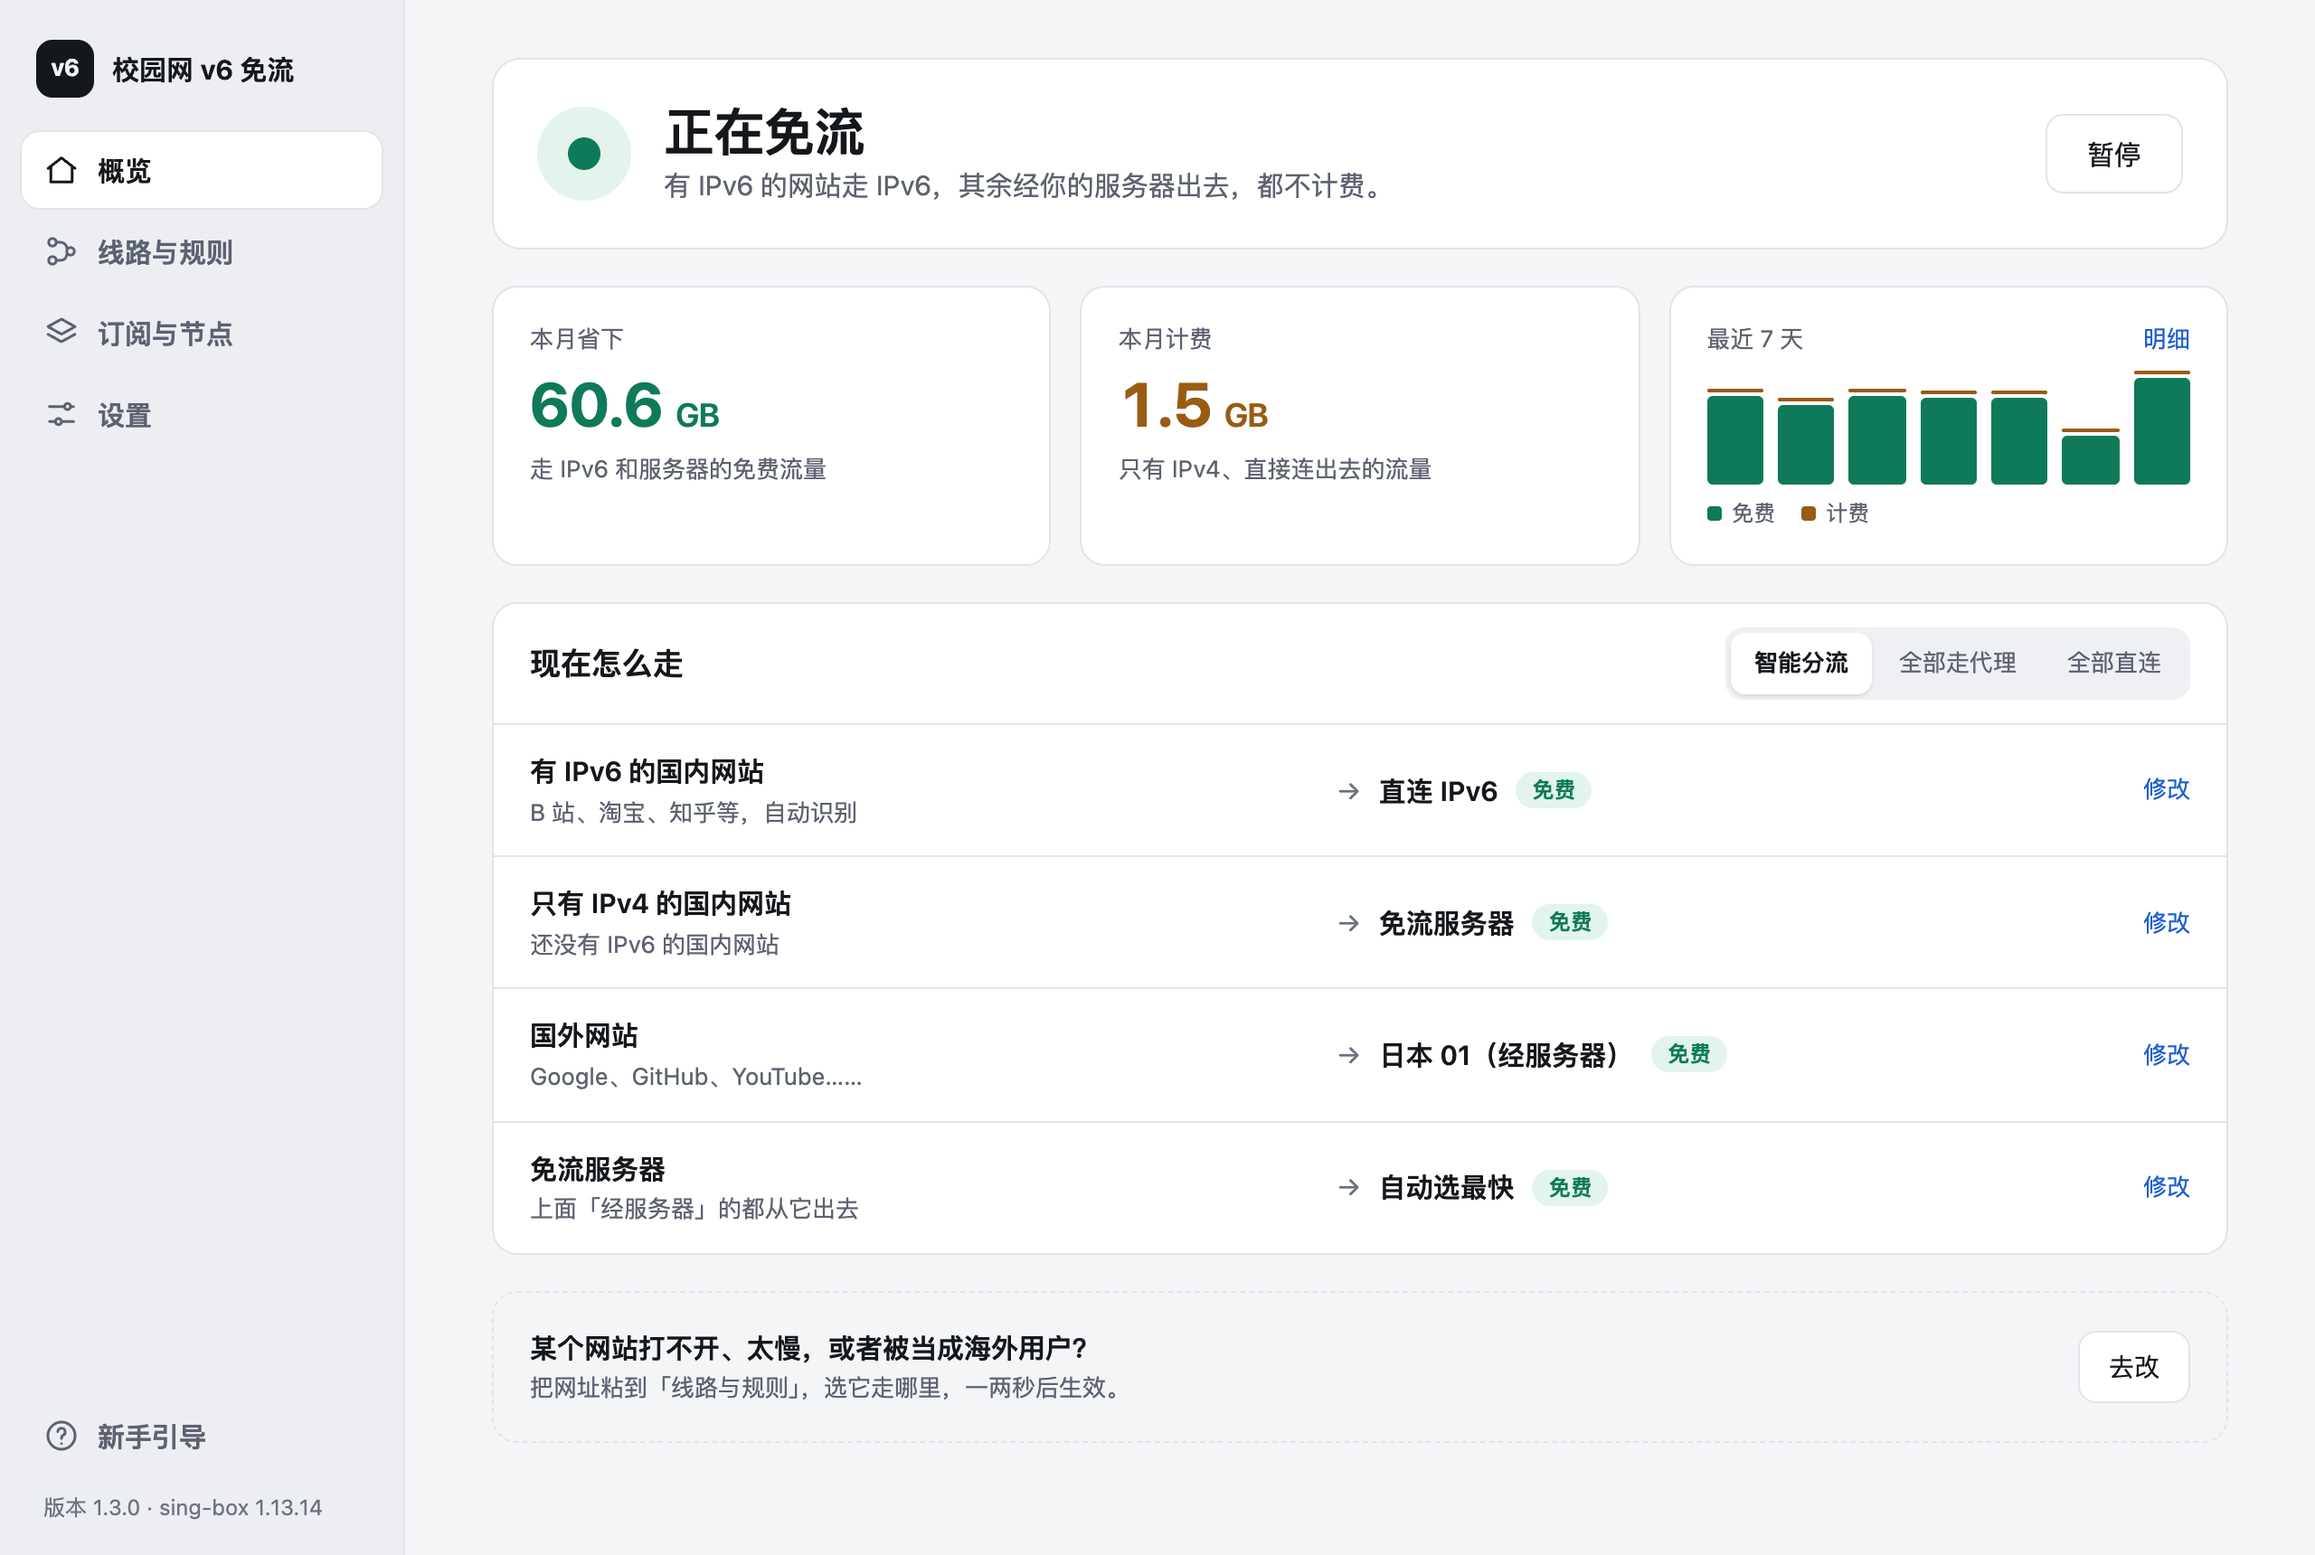
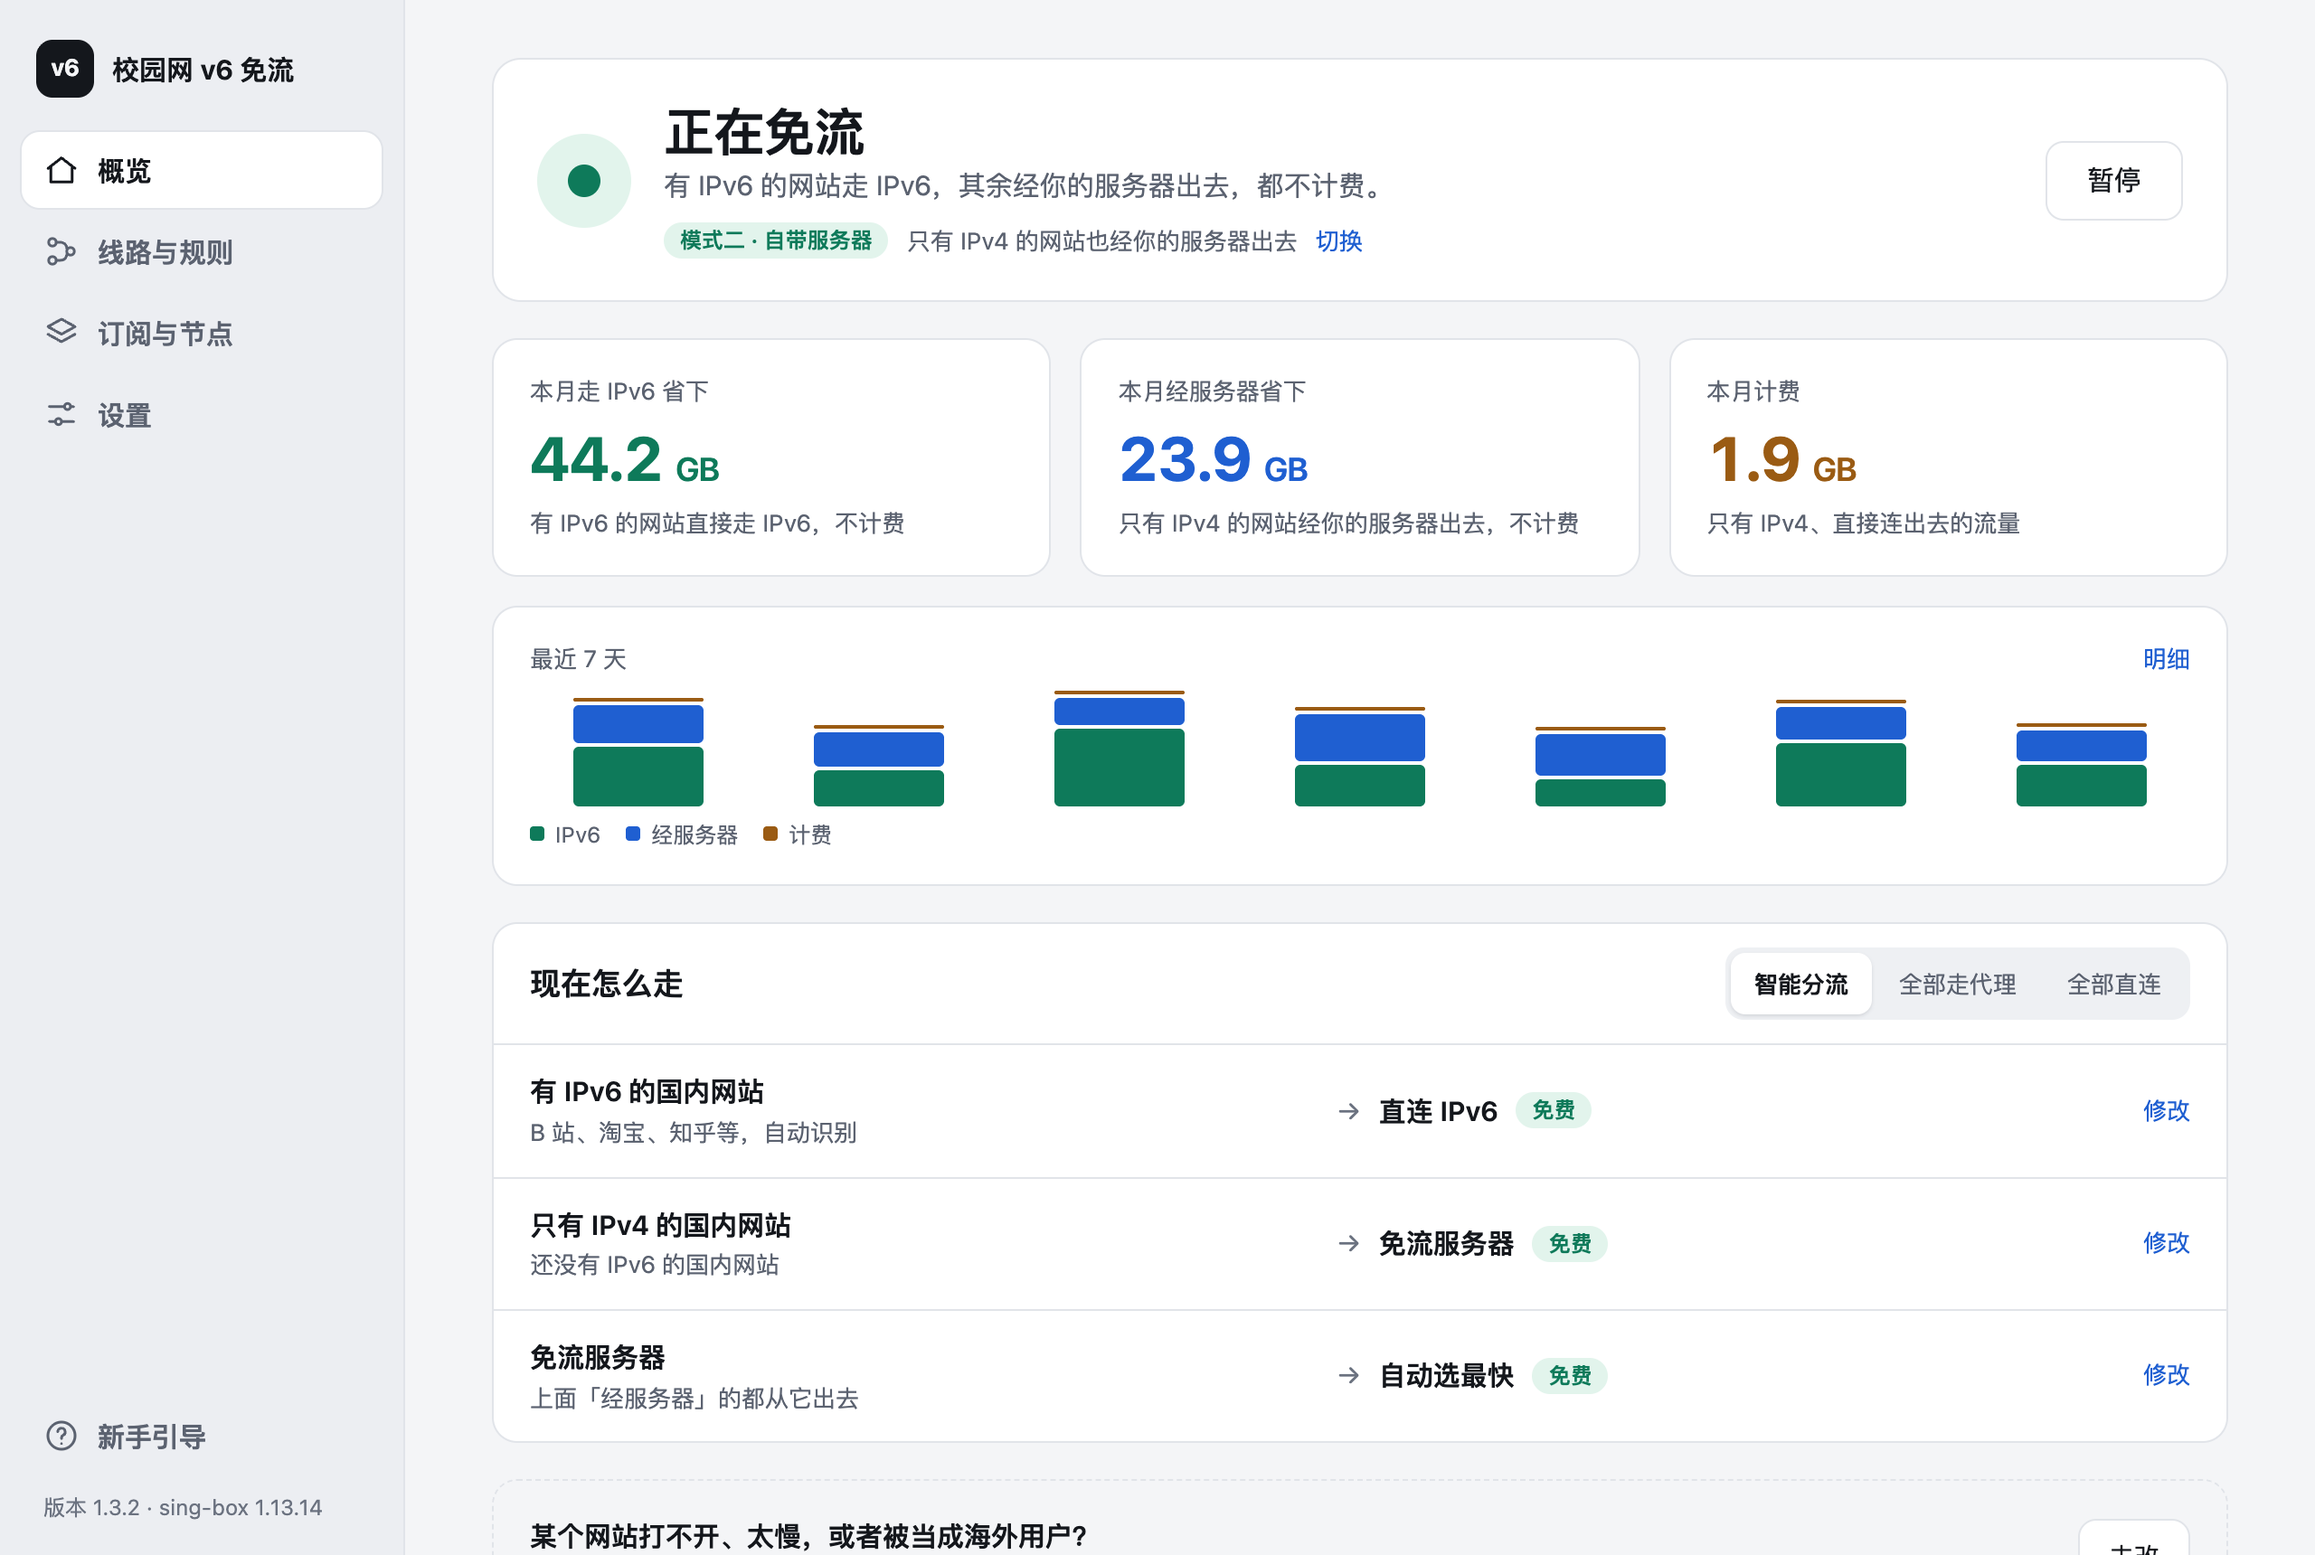
1.3.2：省下的流量分开显示；更新只给 GitHub 链接
- 概览：「本月省下」拆成「走 IPv6 省下」和「经服务器省下」（模式二，或这个月有经服务器的流量时才显示），最近 7 天也分三段
- 设置 → 版本与更新：不再显示更新说明（Markdown 显示不好），给「在 GitHub 上看更新了什么」的链接
- 设置：勾选框那一行的排版修好
- 打包：打完包把打包用的 App 副本从系统登记里注销并删掉，免得「应用程序」、启动台里出现两个
- 文档：概览截图换成新的

diff --git a/panel/index.html b/panel/index.html
@@ -145,8 +145,9 @@
   .stat .s { font-size: 13px; color: var(--muted); }
   .stat .v.free { color: var(--free); }
   .stat .v.paid { color: var(--paid); }
-  .bars { display: flex; align-items: flex-end; gap: 8px; height: 64px; }
-  .bars div { flex: 1 1 0; display: flex; flex-direction: column; justify-content: flex-end; gap: 2px; height: 64px; }
+  .stat .v.srv { color: var(--accent); }
+  .bars { display: flex; align-items: flex-end; justify-content: space-around; gap: 12px; height: 64px; }
+  .bars div { flex: 1 1 0; max-width: 72px; display: flex; flex-direction: column; justify-content: flex-end; gap: 2px; height: 64px; }
   .bars i { display: block; border-radius: 3px; }
   .legend { display: flex; gap: 14px; font-size: 12px; color: var(--muted); }
   .legend span { display: flex; align-items: center; gap: 6px; }
@@ -432,30 +433,41 @@ function renderHome() {
   m.append(hero);
 
   if (helper.traffic) {
-    const stats = $(`<div class="stats">
-      <div class="card stat"><div class="k">本月省下</div><div class="v free">—</div><div class="s">走 IPv6 和服务器的免费流量</div></div>
-      <div class="card stat"><div class="k">本月计费</div><div class="v paid">—</div><div class="s">只有 IPv4、直接连出去的流量</div></div>
-      <div class="card stat"><div class="k"><span>最近 7 天</span><a href="#/traffic">明细</a></div><div class="bars" role="img" aria-label="最近 7 天每天的免费和计费流量"></div>
-        <div class="legend"><span><i style="background:var(--free)"></i>免费</span><span><i style="background:var(--paid)"></i>计费</span></div></div></div>`);
+    // 省下的分开算：走 IPv6 直连的（模式一、二都有）和经自己的服务器的（模式二）
+    const card = (cls, k, s) => `<div class="card stat ${cls}"><div class="k">${k}</div><div class="v ${cls}">—</div><div class="s">${s}</div></div>`;
+    const stats = $(`<div class="sec" style="gap:16px"><div class="stats">
+      ${card("free", "本月走 IPv6 省下", "有 IPv6 的网站直接走 IPv6，不计费")}
+      ${tunnel ? card("srv", "本月经服务器省下", "只有 IPv4 的网站经你的服务器出去，不计费") : ""}
+      ${card("paid", "本月计费", "只有 IPv4、直接连出去的流量")}</div>
+      <div class="card stat week"><div class="k"><span>最近 7 天</span><a href="#/traffic">明细</a></div><div class="bars" role="img" aria-label="最近 7 天每天的流量：走 IPv6、经服务器、计费"></div>
+        <div class="legend"><span><i style="background:var(--free)"></i>IPv6</span>${tunnel ? `<span class="lg-srv"><i style="background:var(--accent)"></i>经服务器</span>` : ""}<span><i style="background:var(--paid)"></i>计费</span></div></div></div>`);
     m.append(stats);
     helperApi("/traffic").then((d) => {
       const now = new Date(), pad = (n) => String(n).padStart(2, "0"), key = (t) => `${t.getFullYear()}-${pad(t.getMonth() + 1)}-${pad(t.getDate())}`;
       const x = d.months[key(now).slice(0, 7)] || { v6: 0, server: {}, v4: 0 };
-      const [free, paid] = stats.querySelectorAll(".v");
-      free.innerHTML = bigSize(x.v6 + srvSum(x));
-      paid.innerHTML = bigSize(x.v4);
+      const srvMonth = srvSum(x);
+      if (!tunnel && srvMonth > 0) {
+        // 这个月中途从模式二换回了模式一：经服务器的那部分照样单独显示
+        stats.querySelector(".stat.paid").before($(card("srv", "本月经服务器省下", "这个月之前经服务器出去的流量")));
+        stats.querySelector(".legend span:first-child").after($(`<span><i style="background:var(--accent)"></i>经服务器</span>`));
+      }
+      stats.querySelector(".v.free").innerHTML = bigSize(x.v6);
+      const sv = stats.querySelector(".v.srv");
+      if (sv) sv.innerHTML = bigSize(srvMonth);
+      stats.querySelector(".v.paid").innerHTML = bigSize(x.v4);
       const days = [];
       for (let i = 6; i >= 0; i--) {
         const t = new Date(now);
         t.setDate(now.getDate() - i);
         const y = d.days[key(t)] || {};
-        days.push([(y.v6 || 0) + srvSum(y), y.v4 || 0, key(t).slice(5)]);
+        days.push([y.v6 || 0, srvSum(y), y.v4 || 0, key(t).slice(5)]);
       }
-      const max = Math.max(1, ...days.map(([f, p]) => f + p));
+      const max = Math.max(1, ...days.map(([a, b, c]) => a + b + c));
       if (max === 1) { stats.querySelector(".bars").outerHTML = `<div class="hint" style="height:64px;display:grid;place-items:center">还没有数据</div>`; return; }
-      const h = (b) => (b ? Math.max(2, Math.round(b / max * 60)) : 0);
-      stats.querySelector(".bars").innerHTML = days.map(([f, p, k]) =>
-        `<div title="${k}：免费 ${gb(f)}B，计费 ${gb(p)}B"><i style="background:var(--paid);height:${h(p)}px"></i><i style="background:var(--free);height:${h(f)}px"></i></div>`).join("");
+      const h = (v) => (v ? Math.max(2, Math.round(v / max * 60)) : 0);
+      stats.querySelector(".bars").innerHTML = days.map(([v6, sv, p, k]) =>
+        `<div title="${k}：走 IPv6 ${gb(v6)}B，经服务器 ${gb(sv)}B，计费 ${gb(p)}B"><i style="background:var(--paid);height:${h(p)}px"></i>`
+        + `<i style="background:var(--accent);height:${h(sv)}px"></i><i style="background:var(--free);height:${h(v6)}px"></i></div>`).join("");
     }).catch(() => { });
   }
 
@@ -1551,7 +1563,7 @@ function serverBox(p, s, servers, ids) {
   for (const id of ids) {
     const v = servers[id];
     const li = $(`<div class="li"><div class="main"><div class="t">${esc(v.label)}</div><div class="d mono">${esc(id)} · ${esc(v.v6)}</div></div>
-      <label class="check"><input type="checkbox" ${v.landing ? "checked" : ""}>也当国外线路用</label><button class="btn small ghost">删除</button></div>`);
+      <label class="check"><input type="checkbox" style="flex:none" ${v.landing ? "checked" : ""}>也当国外线路用</label><button class="btn small ghost">删除</button></div>`);
     li.querySelector("input").onchange = (e) => { v.landing = e.target.checked; changed(); };
     li.querySelector("button").onclick = () => {
       if (ids.length === 1 && !confirm("删掉最后一台服务器就换回模式一。确定？")) return;
@@ -1616,8 +1628,8 @@ function proxySection(m) {
     <div class="li"><label class="main" for="port"><div class="t">代理端口</div>
       <div class="d">大部分程序不用设。命令行工具、浏览器插件要代理时填 127.0.0.1 和这个端口（HTTP、SOCKS5 都行）。</div></label>
       <input type="text" id="port" class="port mono" inputmode="numeric" style="width:110px"></div>
-    <div class="li" style="display:${ids.length ? "flex" : "none"}"><label class="check main"><input type="checkbox" class="via">
-      订阅里的节点先经免流服务器再出去（免费）。关掉 = 校园网 IPv4 直接连节点（计费，延迟低）</label></div></div></section>`);
+    <div class="li" style="display:${ids.length ? "flex" : "none"}"><label class="check main"><input type="checkbox" class="via" style="flex:none">
+      <span style="flex:1">订阅里的节点先经免流服务器再出去（免费）。关掉 = 校园网 IPv4 直接连节点（计费，延迟低）</span></label></div></div></section>`);
   const port = other.querySelector(".port");
   port.value = s.main_port ?? client.defaults.main_port ?? "";
   port.onchange = () => {
@@ -1645,13 +1657,13 @@ function renderUpdate(m) {
     if (v.error) { body.textContent = v.error; body.classList.add("err"); }
     else if (!v.latest) body.textContent = "还没检查过。";
     else if (!v.available) body.textContent = `已是最新（${when(v.checked)} 检查过；每天自动检查一次）。有新版本时概览页和这里会提示，点一下就更新。`;
-    else body.textContent = `有新版本 ${v.latest}。`;
+    else body.textContent = `${when(v.checked)} 检查到新版本。`;
     if (!v.available) return;
-    const box = $(`<div class="upd sec"><div><b>有新版本 ${esc(v.latest)}</b> · <a href="${esc(v.url)}" target="_blank" rel="noopener">在 GitHub 上看</a></div>
-      <pre class="mono" style="white-space:pre-wrap;max-height:240px;overflow:auto;margin:0;background:var(--sunken);padding:12px;border-radius:10px">${esc(v.notes || "（没有说明）")}</pre>
-      <p class="hint" style="margin:0">换上新的面板、生成器、规则集和本地助手，不需要管理员密码；配置、订阅与设置、我的规则都保留。
-      安装包先按发布里的 SHA256 校验，不对就不装。装完点一次页面上方的「应用」，新生成器才会用上。</p>
-      <div><button class="btn primary big">更新到 ${esc(v.latest)}</button></div></div>`);
+    // 更新说明不在这里显示（Markdown 显示不好）：给个链接去 GitHub 看
+    const box = $(`<div class="upd row" style="border-top:1px solid var(--line);padding-top:14px"><div class="grow" style="min-width:240px">
+      <b>有新版本 ${esc(v.latest)}</b> · <a href="${esc(v.url)}" target="_blank" rel="noopener">在 GitHub 上看更新了什么</a>
+      <div class="hint">不需要管理员密码；配置、订阅、设置和我的规则都保留，装完点一次页面上方的「应用」。</div></div>
+      <button class="btn primary big">更新到 ${esc(v.latest)}</button></div>`);
     const b = box.querySelector("button");
     b.onclick = async () => {
       b.disabled = true;

diff --git a/cli.js b/cli.js
@@ -397,6 +397,12 @@ async function packageExtras(platform, dir, out) {
     const dist = path.join(res, "distribution.xml");
     fs.writeFileSync(dist, fs.readFileSync(path.join(ROOT, "mac/pkg/distribution.xml"), "utf8").replaceAll("__VERSION__", VERSION));
     execFileSync("productbuild", ["--quiet", "--distribution", dist, "--resources", res, "--package-path", comp, path.join(out, `${base}.pkg`)]);
+    // 打包用的 App 副本（zip 和 .pkg 里都已经有了）：从系统登记里注销再删掉，免得启动台、「应用程序」里出现两个「校园网 v6 免流」
+    const lsregister = "/System/Library/Frameworks/CoreServices.framework/Frameworks/LaunchServices.framework/Support/lsregister";
+    for (const a of [path.join(dir, APP_NAME), path.join(pkgDir, APP_NAME)]) {
+      try { execFileSync(lsregister, ["-u", a], { stdio: "ignore" }); } catch { }
+    }
+    fs.rmSync(path.join(dir, APP_NAME), { recursive: true, force: true });
     for (const d of [".pkg-root", ".pkg-scripts", ".pkg-comp", ".pkg-res"]) fs.rmSync(path.join(out, d), { recursive: true, force: true });
     addSum(out, `${base}.pkg`);
     console.log(`已打包 ${path.join(out, base + ".pkg")}`);
